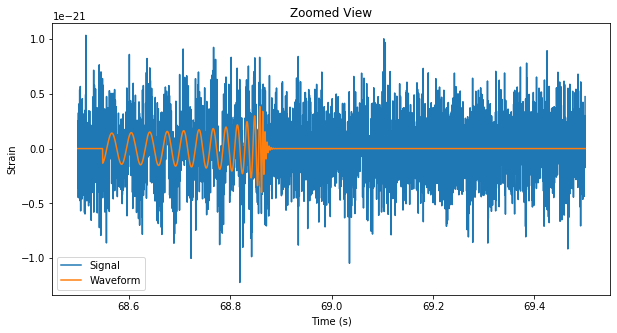
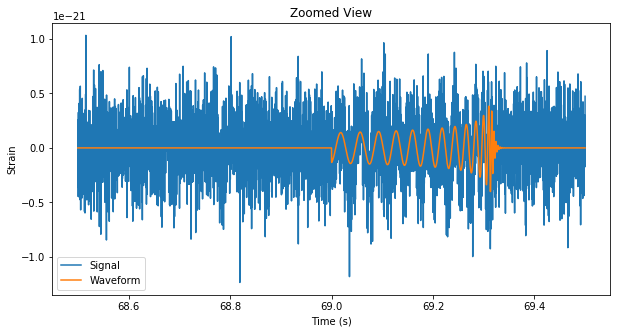
Corrected Injection

diff --git a/src/chirp_injection.py b/src/chirp_injection.py
@@ -6,6 +6,7 @@ from pycbc.types import real_same_precision_as
 from generate_waveforms import generate_noise
 from pycbc.filter import matchedfilter
 from pycbc.psd import interpolate, inverse_spectrum_truncation
+from pycbc.filter import matched_filter
 
 mass = 36 
 
@@ -21,6 +22,7 @@ noise = generate_noise(time_duration, delta_f, delta_t, f_min)
  
 merger_time = (1/4096) * hp.numpy().argmax() 
 snr = 20
+
 
 pylab.figure(figsize=(10,5)) 
 pylab.plot(hp.sample_times,hp) 
@@ -47,13 +49,13 @@ hp *= Amplitude
 
 hp.resize(hp_size)
 merger_time = 69
-merger_index = int(69/noise.delta_t)
-start_index = merger_index - len(hp)
+merger_index = int(69/delta_t) +1 
+start_index = merger_index + len(hp)
 waveform = TimeSeries(numpy.zeros(len(noise)), delta_t=delta_t, \
         dtype=real_same_precision_as(noise))
 
 
-waveform[start_index:merger_index] = hp
+waveform[merger_index :start_index] = hp
 
 signal = noise + waveform
 
@@ -76,3 +78,22 @@ pylab.xlabel('Time (s)')
 pylab.ylabel('Strain')
 pylab.title('Zoomed View') 
 pylab.legend()
+
+hp.resize(time_duration*f_sample)
+snr = matched_filter(hp, signal,
+                     psd=psd, low_frequency_cutoff=20)
+
+
+
+pylab.figure(figsize=[10, 4])
+pylab.plot(snr.sample_times, abs(snr))
+pylab.ylabel('Signal-to-noise')
+pylab.xlabel('Time (s)')
+pylab.show()
+
+peak = abs(snr).numpy().argmax()
+snrp = snr[peak]
+time = snr.sample_times[peak]
+
+print("We found a signal at {}s with SNR {}".format(time, 
+                                                    abs(snrp)))
